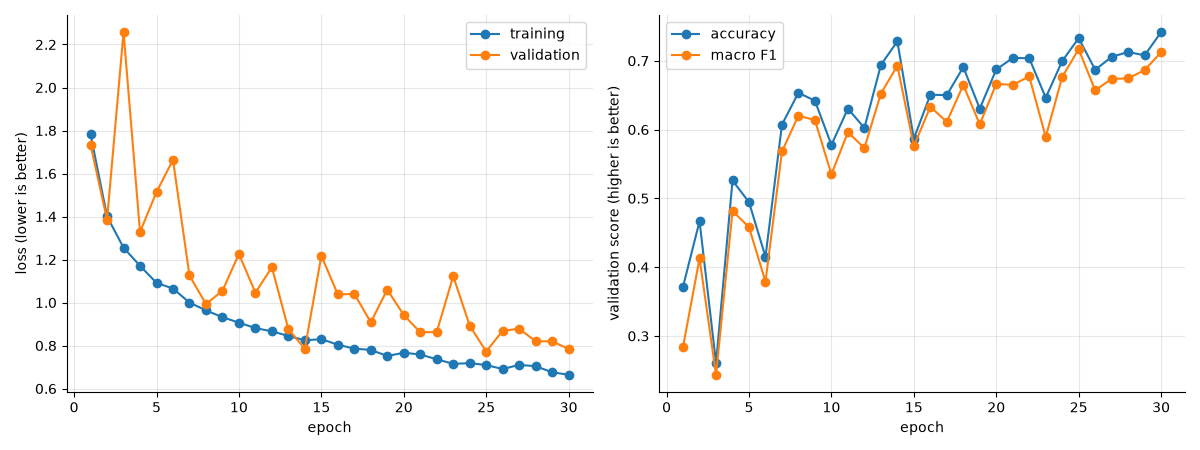
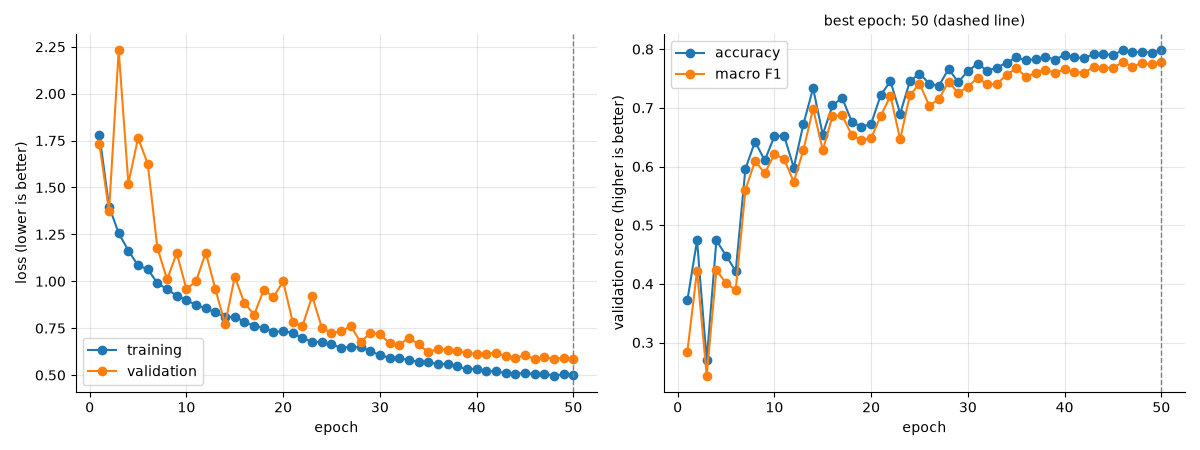
Run scheduled training

diff --git a/src/training.py b/src/training.py
@@ -114,18 +114,24 @@ def predict(model, loader, loss_fn, device):
     return total_loss / len(truths), guesses, truths
 
 
-def fit(model, train_loader, val_loader, loss_fn, optimizer, device, epochs, out_dir):
-    """Train for a number of epochs; after each one, measure on validation. Logs to history.csv."""
+def fit(model, train_loader, val_loader, loss_fn, optimizer, device, epochs, out_dir,
+        scheduler=None, checkpoint_path=None, patience=None):
     history = []
-    print(f"\n{'epoch':>5s} {'train loss':>10s} {'val loss':>8s} {'val acc':>7s} {'val F1':>6s} {'seconds':>7s}")
+    best_f1, best_epoch = -1.0, 0
+    print(f"\n{'epoch':>5s} {'lr':>8s} {'train loss':>10s} {'val loss':>8s} {'val acc':>7s} {'val F1':>6s} "
+          f"{'seconds':>7s}")
     for epoch in range(1, epochs + 1):
+        learning_rate = optimizer.param_groups[0]["lr"]
         start = time.perf_counter()
         train_loss = train_one_epoch(model, train_loader, loss_fn, optimizer, device)
         train_seconds = time.perf_counter() - start
+        if scheduler is not None:
+            scheduler.step()
 
         val_loss, val_guesses, val_truths = predict(model, val_loader, loss_fn, device)
         row = {
             "epoch": epoch,
+            "learning_rate": learning_rate,
             "train_loss": round(train_loss, 4),
             "val_loss": round(val_loss, 4),
             "val_accuracy": round(accuracy_score(val_truths, val_guesses), 4),
@@ -133,18 +139,32 @@ def fit(model, train_loader, val_loader, loss_fn, optimizer, device, epochs, out
             "train_seconds": round(train_seconds, 2),
         }
         history.append(row)
-        print(f"{epoch:>5d} {row['train_loss']:>10.3f} {row['val_loss']:>8.3f} {row['val_accuracy']:>7.1%} "
-              f"{row['val_macro_f1']:>6.3f} {row['train_seconds']:>7.1f}")
+
+        is_best = row["val_macro_f1"] > best_f1
+        if is_best:
+            best_f1, best_epoch = row["val_macro_f1"], epoch
+            if checkpoint_path is not None:
+                torch.save(model.state_dict(), checkpoint_path)   # all learned numbers, as a file
+        print(f"{epoch:>5d} {learning_rate:>8.6f} {row['train_loss']:>10.3f} {row['val_loss']:>8.3f} "
+              f"{row['val_accuracy']:>7.1%} {row['val_macro_f1']:>6.3f} {row['train_seconds']:>7.1f}"
+              f"{'  <- best so far' if is_best else ''}")
+
+        if patience is not None and epoch - best_epoch >= patience:
+            print(f"early stop: no improvement for {patience} epochs")
+            break
+
+    if checkpoint_path is not None:
+        model.load_state_dict(torch.load(checkpoint_path))         # back to the best epoch
 
     with open(out_dir / "history.csv", "w", newline="") as f:
         writer = csv.DictWriter(f, fieldnames=history[0].keys())
         writer.writeheader()
         writer.writerows(history)
-    plot_history(history, out_dir / "learning_curves.png")
-    return history
+    plot_history(history, out_dir / "learning_curves.png", best_epoch)
+    return history, best_epoch
 
 
-def plot_history(history, path):
+def plot_history(history, path, best_epoch=None):
     """Learning curves: loss (left) and validation scores (right) after every epoch."""
     epochs = [row["epoch"] for row in history]
     fig, (left, right) = plt.subplots(1, 2, figsize=(12, 4.5))
@@ -157,8 +177,12 @@ def plot_history(history, path):
     right.plot(epochs, [row["val_macro_f1"] for row in history], marker="o", label="macro F1")
     right.set_xlabel("epoch")
     right.set_ylabel("validation score (higher is better)")
+    if best_epoch:
+        right.set_title(f"best epoch: {best_epoch} (dashed line)", fontsize=10)
     right.legend()
     for ax in (left, right):
+        if best_epoch:
+            ax.axvline(best_epoch, color="grey", linestyle="--", linewidth=1)
         ax.grid(alpha=0.3)
         ax.spines[["top", "right"]].set_visible(False)
     plt.tight_layout()

diff --git a/src/model2_cnn.py b/src/model2_cnn.py
@@ -7,16 +7,21 @@ import torch
 from torch import nn
 
 from dataset import CLASS_NAMES, PROJECT_ROOT
-from training import augment, class_weights, fit, get_device, make_loaders
+from evaluate import evaluate
+from training import augment, class_weights, fit, get_device, make_loaders, predict
 
 IMAGE_SIZE = 64
 BATCH_SIZE = 64     # images per training step
 SEED = 42           # fixes all random choices (start values of the network, shuffling)
 LEARNING_RATE = 1e-3   # how big a step the optimizer takes after each batch
-EPOCHS = 30            # how many times the network sees all training images
+EPOCHS = 50            # at most this many passes over all training images
+PATIENCE = 10          # stop early if validation macro F1 has not improved for this many epochs
+TRAIN = False          # True: train the network again (~6 min); False: load the saved best network
 
 RESULTS_DIR = PROJECT_ROOT / "results/model2_cnn"
 RESULTS_DIR.mkdir(parents=True, exist_ok=True)
+MODEL_PATH = PROJECT_ROOT / "models/model2_cnn.pt"
+MODEL_PATH.parent.mkdir(parents=True, exist_ok=True)
 
 torch.manual_seed(SEED)
 device = get_device()
@@ -156,7 +161,19 @@ for step in range(1, 6):
     demo_optimizer.step()                          # 4. change every number a little in that direction
     print(f"learning step {step} on the same batch: loss {loss.item():.3f}")
 
-# --- Step 5: the training loop ---
-history = fit(model, train_loader, val_loader, loss_fn, optimizer, device, EPOCHS, RESULTS_DIR)
-print(f"\ntotal training time: {sum(row['train_seconds'] for row in history):.0f} s")
-print(f"saved history.csv and learning_curves.png to {RESULTS_DIR}")
+# --- Steps 5 and 6: the training loop, keeping the best epoch ---
+if TRAIN:
+    scheduler = torch.optim.lr_scheduler.CosineAnnealingLR(optimizer, T_max=EPOCHS)
+    history, best_epoch = fit(model, train_loader, val_loader, loss_fn, optimizer, device, EPOCHS, RESULTS_DIR,
+                              scheduler=scheduler, checkpoint_path=MODEL_PATH, patience=PATIENCE)
+    best = history[best_epoch - 1]
+    print(f"\nbest epoch {best_epoch}: val accuracy {best['val_accuracy']:.1%}, macro F1 {best['val_macro_f1']:.3f}")
+    print(f"total training time: {sum(row['train_seconds'] for row in history):.0f} s for {len(history)} epochs")
+    print(f"saved the best network to {MODEL_PATH}, history.csv and learning_curves.png to {RESULTS_DIR}")
+else:
+    model.load_state_dict(torch.load(MODEL_PATH, map_location=device))
+    print(f"\nloaded the saved best network from {MODEL_PATH}")
+
+# --- Step 7: evaluate on the validation images ---
+_, y_val_pred, y_val = predict(model, val_loader, loss_fn, device)
+evaluate(y_val, y_val_pred, "val", RESULTS_DIR)
